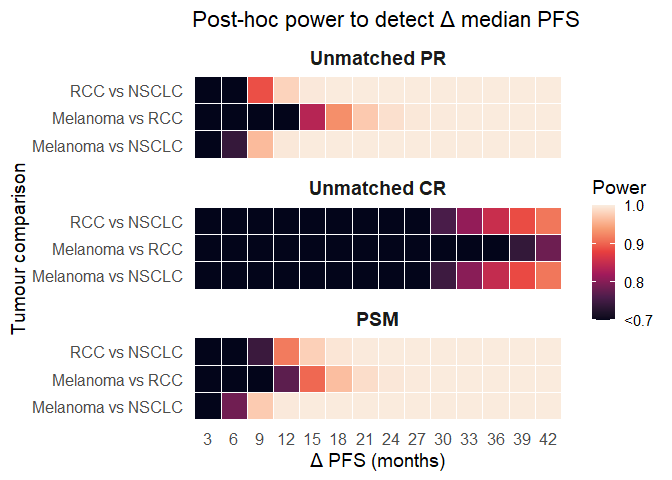
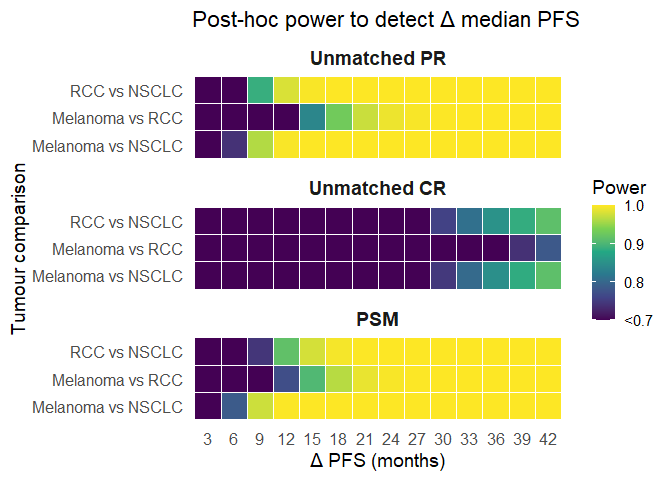
Corrected a mistake in the propensity match script

diff --git a/Reports/PropensityScore_joined_cohorts_mel_rcc_lung.md b/Reports/PropensityScore_joined_cohorts_mel_rcc_lung.md
@@ -1797,6 +1797,19 @@ power_table_final
     ## RCC vs NSCLC2      0.9161399          PSM
 
 ``` r
+# kable(
+#   power_table_final,
+#   format    = "html",
+#   digits    = 2,              # round numeric columns to 2 digits
+#   caption   = "Power Calculations",row.names = F
+# ) %>%
+#   kable_styling(
+#     bootstrap_options = c("striped", "hover", "condensed"), 
+#     full_width        = FALSE
+#   )
+```
+
+``` r
 # Choose the deltas you want to explore (months)
 deltas <- seq(3,42, by=3)
 
@@ -1901,25 +1914,6 @@ power_table_heat <- power_table_heat %>%
     comparison = as.factor(comparison)
   )
 
-head(power_table_heat)
-```
-
-    ##                             comparison response HR_target  n1  n2 events_D
-    ## 3.Melanoma vs RCC      Melanoma vs RCC       CR 0.9331146 576  79      147
-    ## 3.Melanoma vs NSCLC  Melanoma vs NSCLC       CR 0.9114533 576  73      150
-    ## 3.RCC vs NSCLC            RCC vs NSCLC       CR 0.8919699  79  73       45
-    ## 3.Melanoma vs RCC1     Melanoma vs RCC       PR 0.9331146 620 178      533
-    ## 3.Melanoma vs NSCLC1 Melanoma vs NSCLC       PR 0.9114533 620 591      862
-    ## 3.RCC vs NSCLC1           RCC vs NSCLC       PR 0.8919699 178 591      591
-    ##                           power        group delta
-    ## 3.Melanoma vs RCC    0.04583882 Unmatched CR     3
-    ## 3.Melanoma vs NSCLC  0.05466764 Unmatched CR     3
-    ## 3.RCC vs NSCLC       0.05741937 Unmatched CR     3
-    ## 3.Melanoma vs RCC1   0.09772503 Unmatched PR     3
-    ## 3.Melanoma vs NSCLC1 0.27448423 Unmatched PR     3
-    ## 3.RCC vs NSCLC1      0.21541944 Unmatched PR     3
-
-``` r
 power_table_heat_plot <- power_table_heat %>%
   mutate(
     power_trunc = pmax(power, 0.7) 
@@ -1932,7 +1926,7 @@ ggplot(power_table_heat_plot,
     name   = "Power",
     breaks = c(0.7, 0.8, 0.9, 1.0),
     labels = c("<0.7", "0.8", "0.9", "1.0"),
-    option = "F"
+    option = "D"
   ) +
   facet_wrap(~ group, ncol = 1, scales = "free_y") +
   labs(
